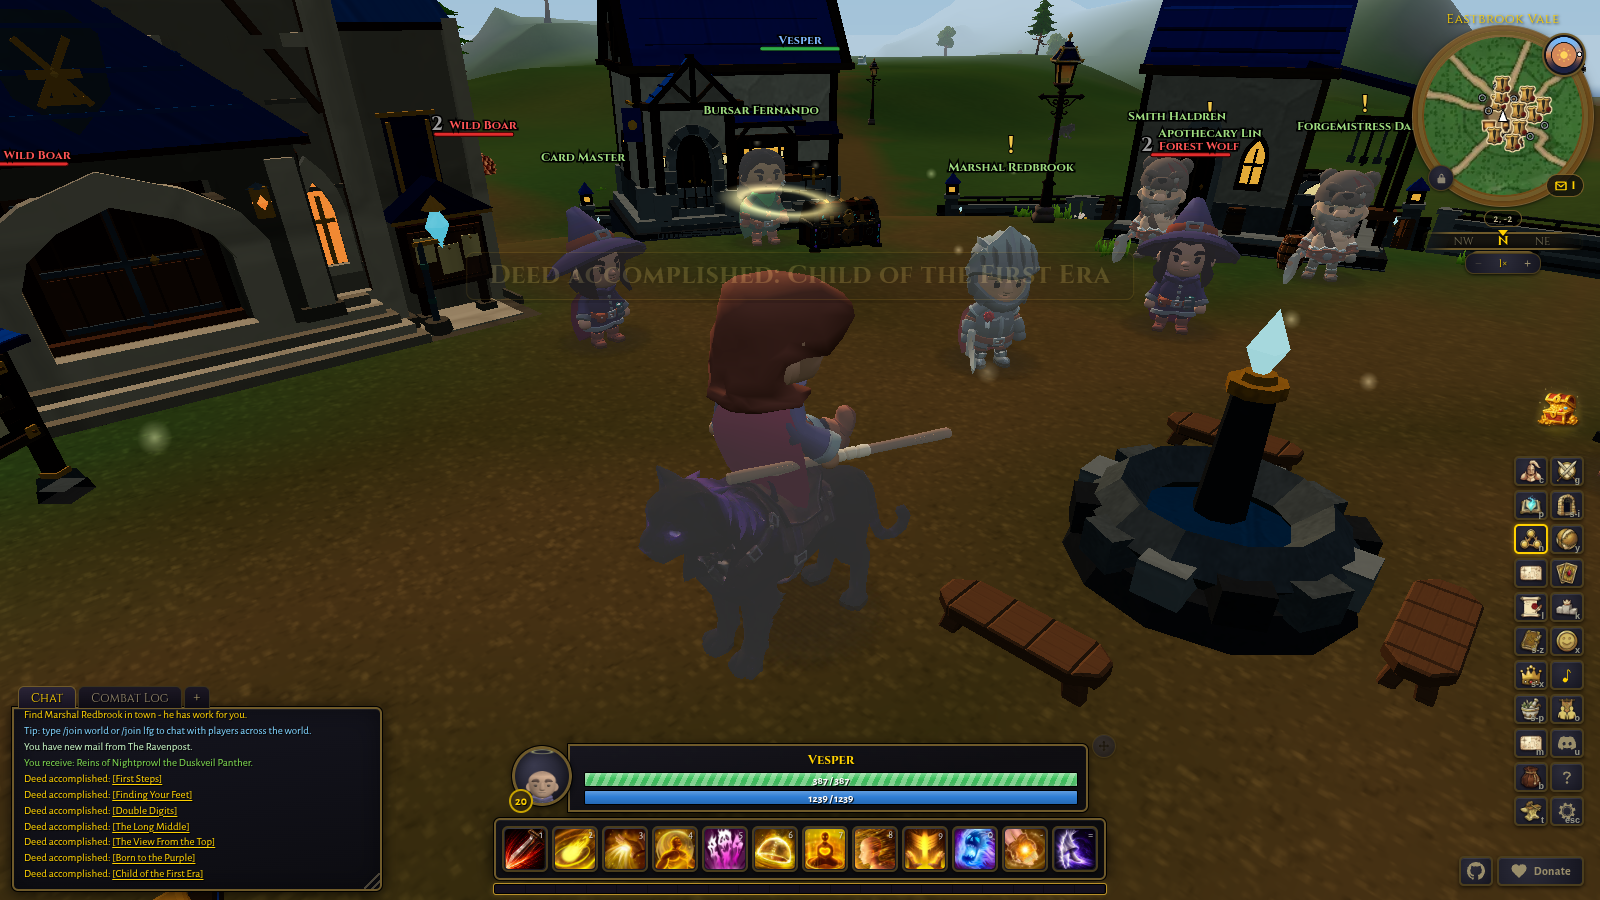
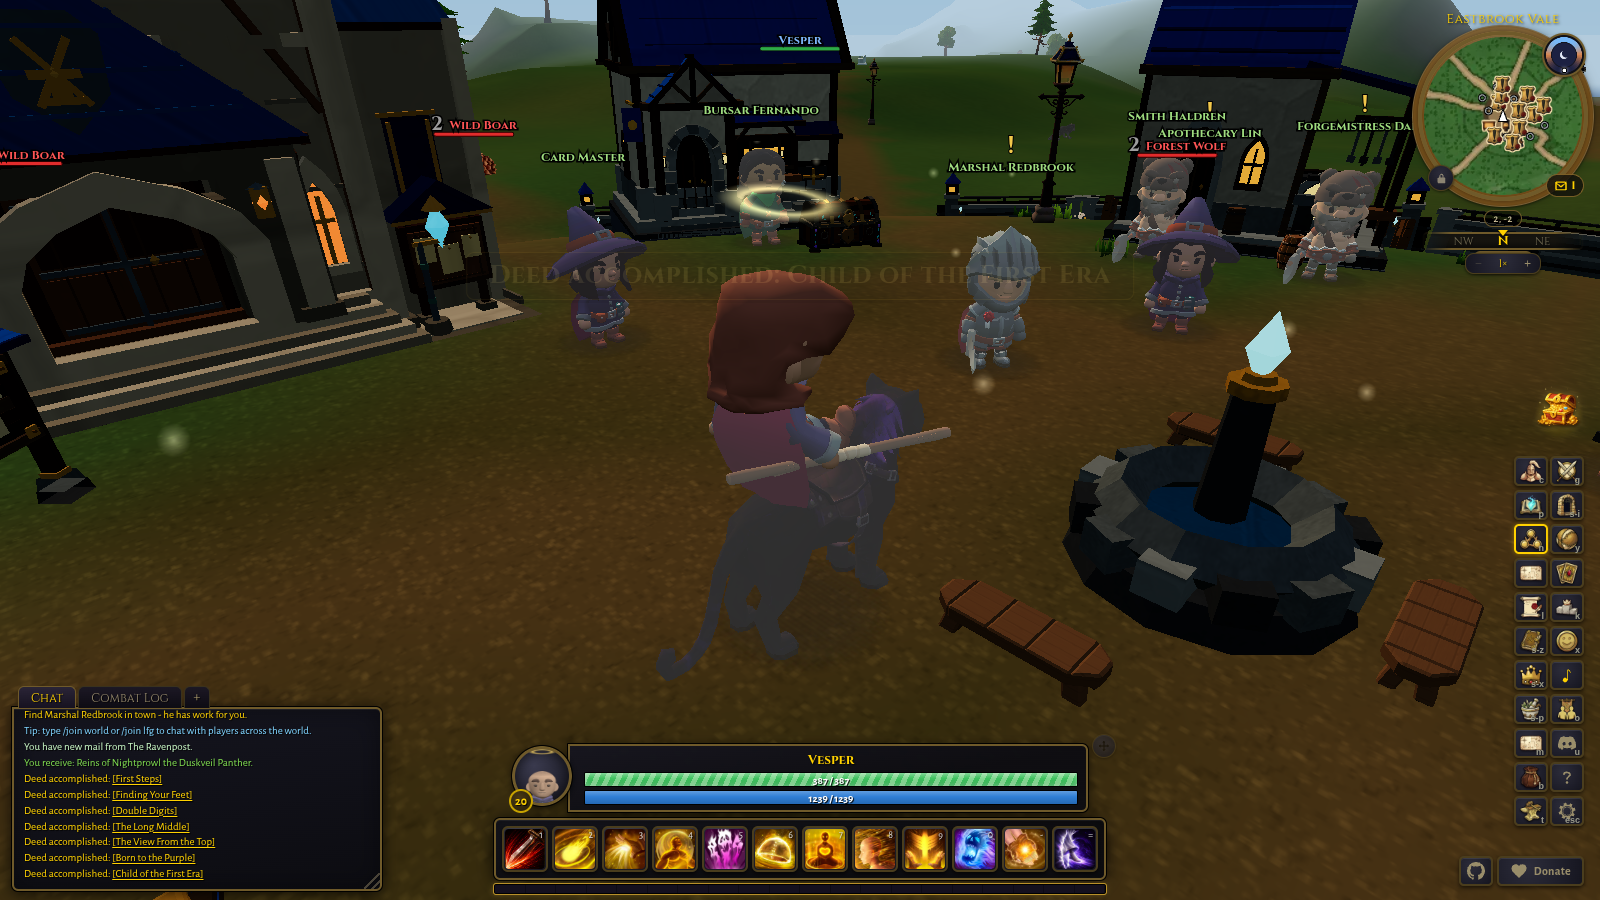
docs(mounts): refresh PR screenshot evidence for all 5 mounts
Re-captures the four-angle iso turntable plus a mid-gallop run shot for the
Veil-Wraith Courser, Grimtusk Boar, Cinderhide Hound, and Nightprowl Panther
(reflecting the seat/facing/gait fixes and the new jump/idle animations),
and adds the same showcase set for the new Windrend the Stormveil Shadewolf
mount. Wires the new screenshot subtree into the CI sparse-checkout cone
(all 5 test jobs plus the pinned test literal) with a doc reference so the
sparse-checkout coupling guard passes.

diff --git a/tests/ci_workflow.test.ts b/tests/ci_workflow.test.ts
@@ -263,6 +263,7 @@ describe('CI workflow parity', () => {
       '            /docs/screenshots/r35-admin-professions-inspector/',
       '            /docs/screenshots/release-v036-skill-normalization-2026-08-10/',
       '            /docs/screenshots/wildheart/',
+      '            /docs/screenshots/windrend-stormveil-shadewolf-mount/',
       '          sparse-checkout-cone-mode: false',
     ].join('\n');
     // Job-anchored, not a bare workflow-wide count: each sparse job carries

diff --git a/docs/mount-fixes-2026-08-14.md b/docs/mount-fixes-2026-08-14.md
@@ -1,4 +1,4 @@
-# Mount fixes: Grimtusk saddle, Cinderhide facing, Nightprowl panther
+# Mount fixes: Grimtusk saddle, Cinderhide facing, Nightprowl panther, Windrend shadewolf
 
 One-off record of the PR #3365 follow-up fixes, referenced here so the CI
 sparse-checkout cone for their screenshot evidence has a real coupling
@@ -21,3 +21,10 @@ every referenced screenshot subtree").
 Full catalog wiring for the panther (mounts/items/reliquary/deeds, i18n
 catalog plus the five M16 non-Latin locale fills, KTX2-compressed GLB, wiki
 regen) shipped in the same change as the boar/hound fixes.
+
+- **Windrend the Stormveil Shadewolf**: a fifth rideable mount, the shaman
+  counterpart to the Courser/priest, Hound/warlock, and Panther/rogue
+  mount-lore pattern (tied to the shaman's Shadewolf travel form). Same full
+  catalog wiring as the panther, plus jump and idle animations added to every
+  mount in this PR and improved gait keyframe density/amplitude on the
+  rigged mounts. Evidence: `docs/screenshots/windrend-stormveil-shadewolf-mount/`.
